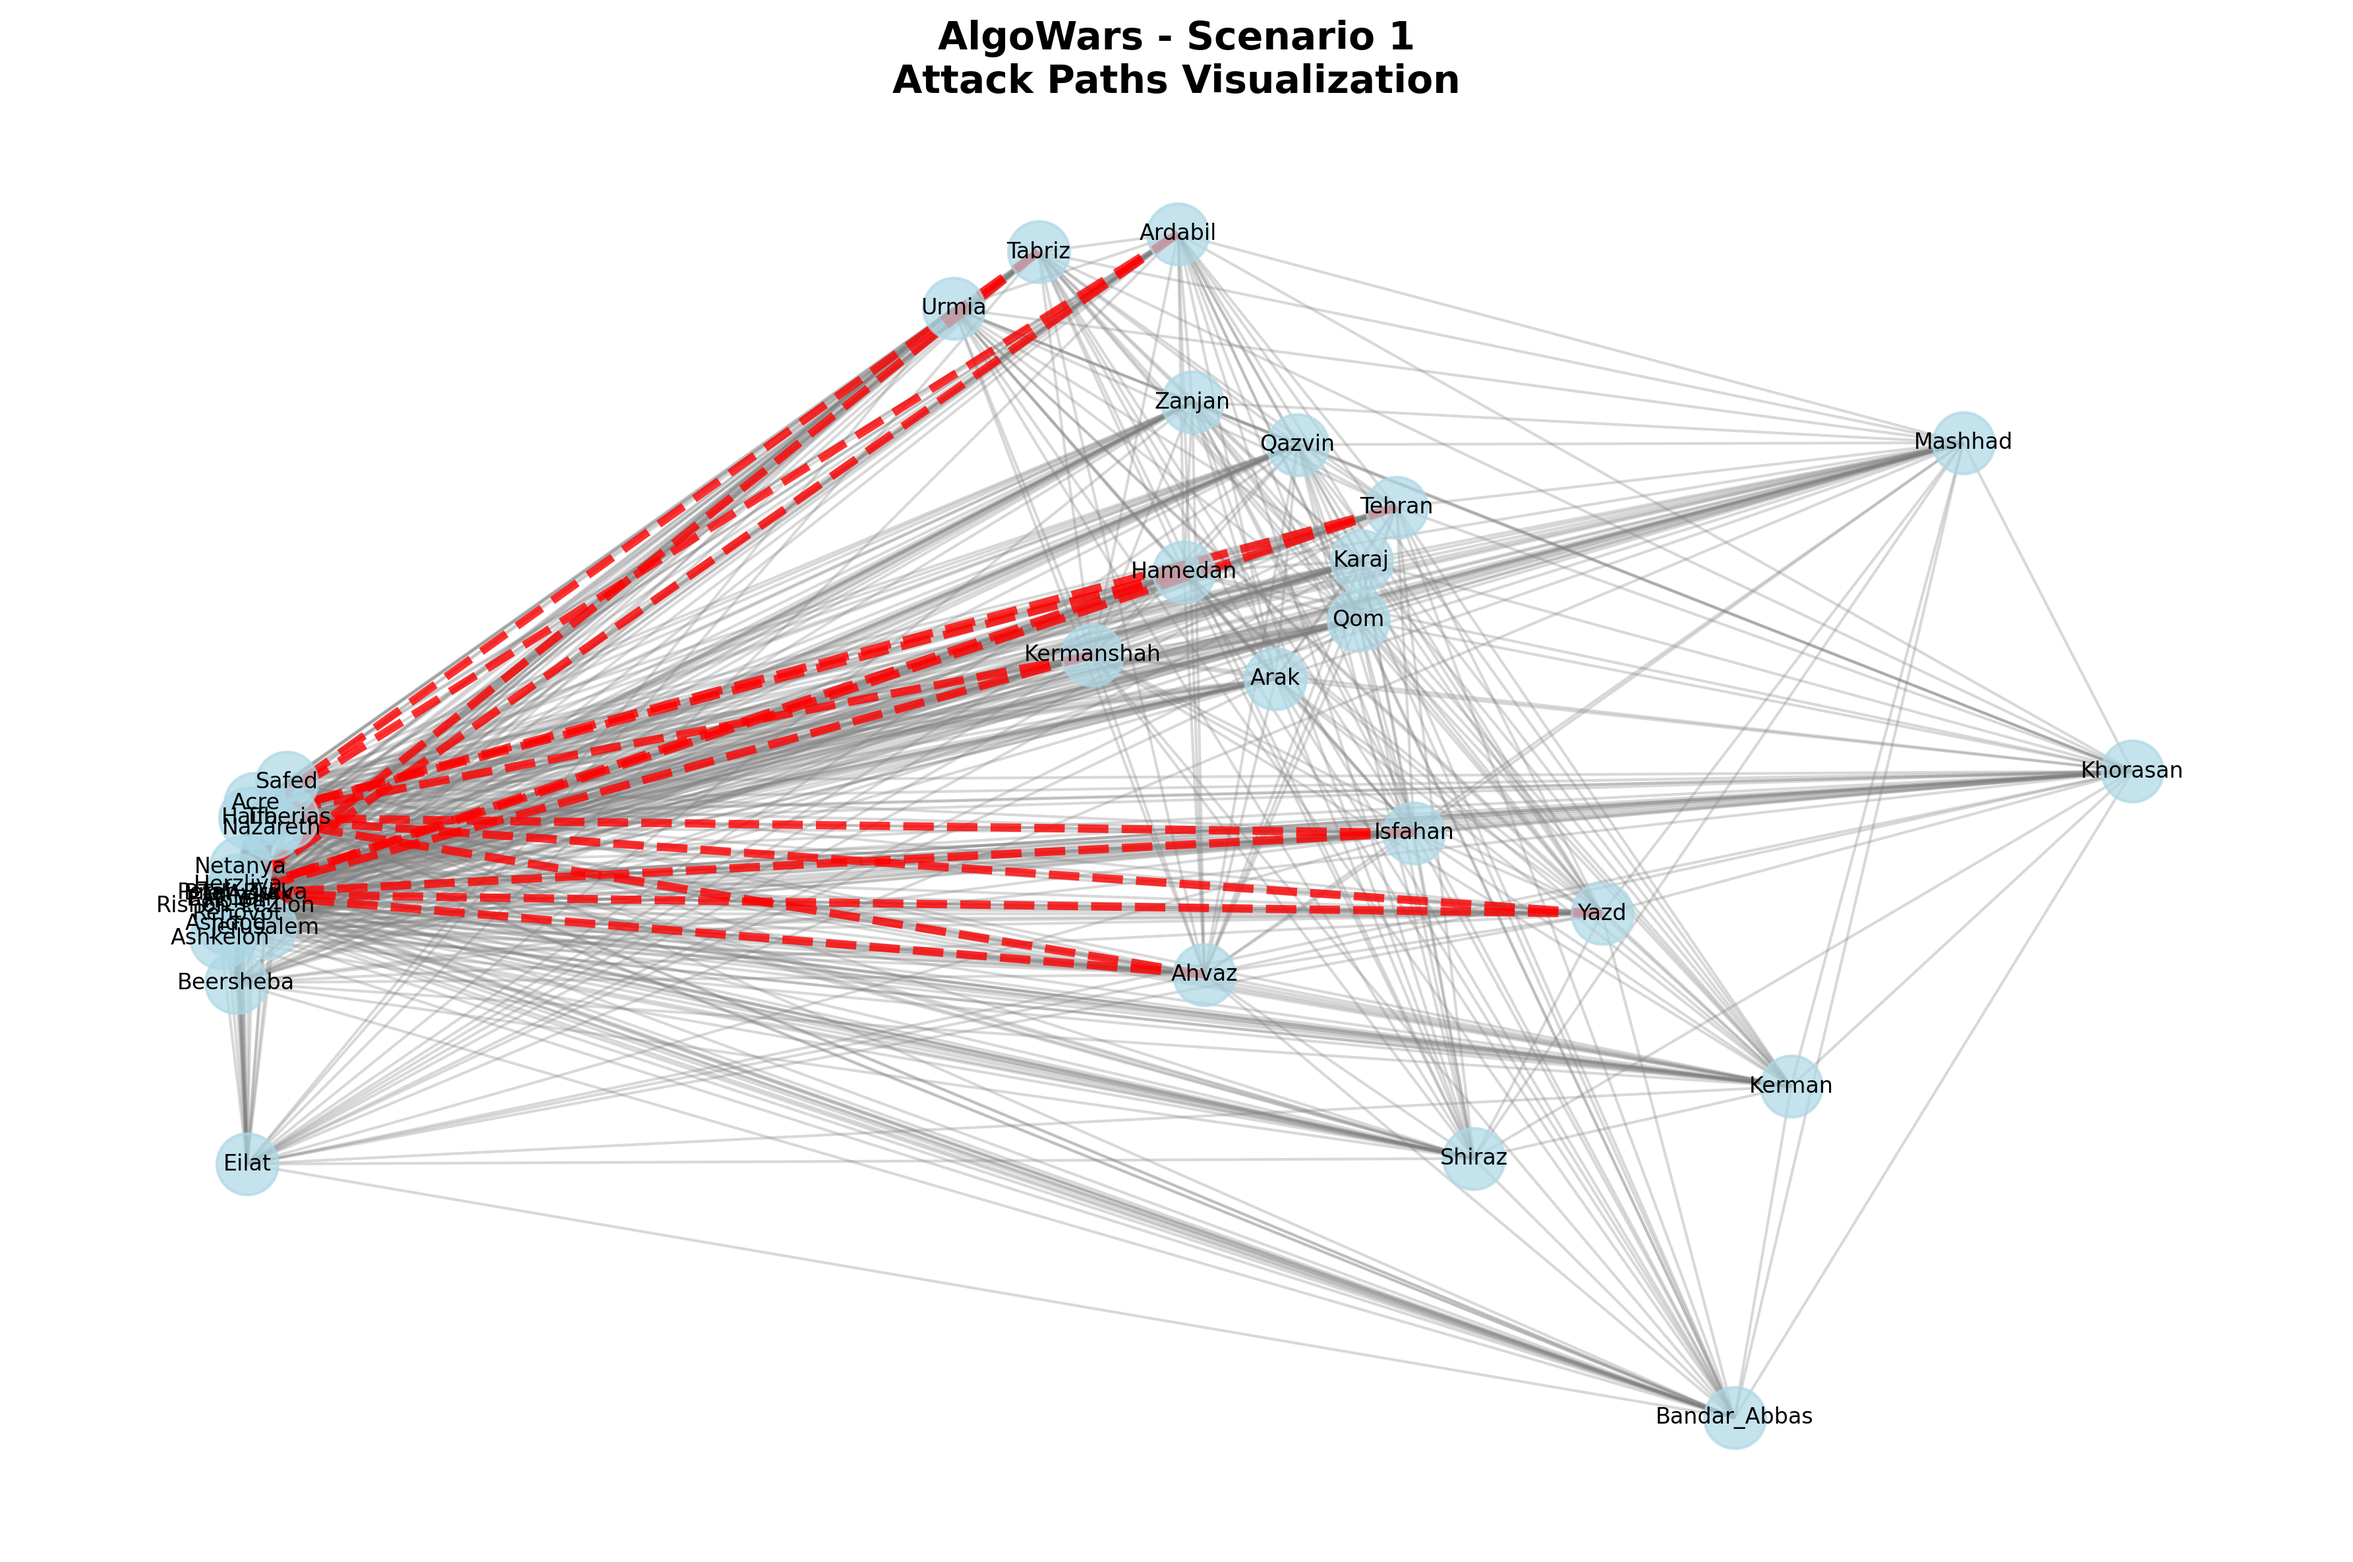
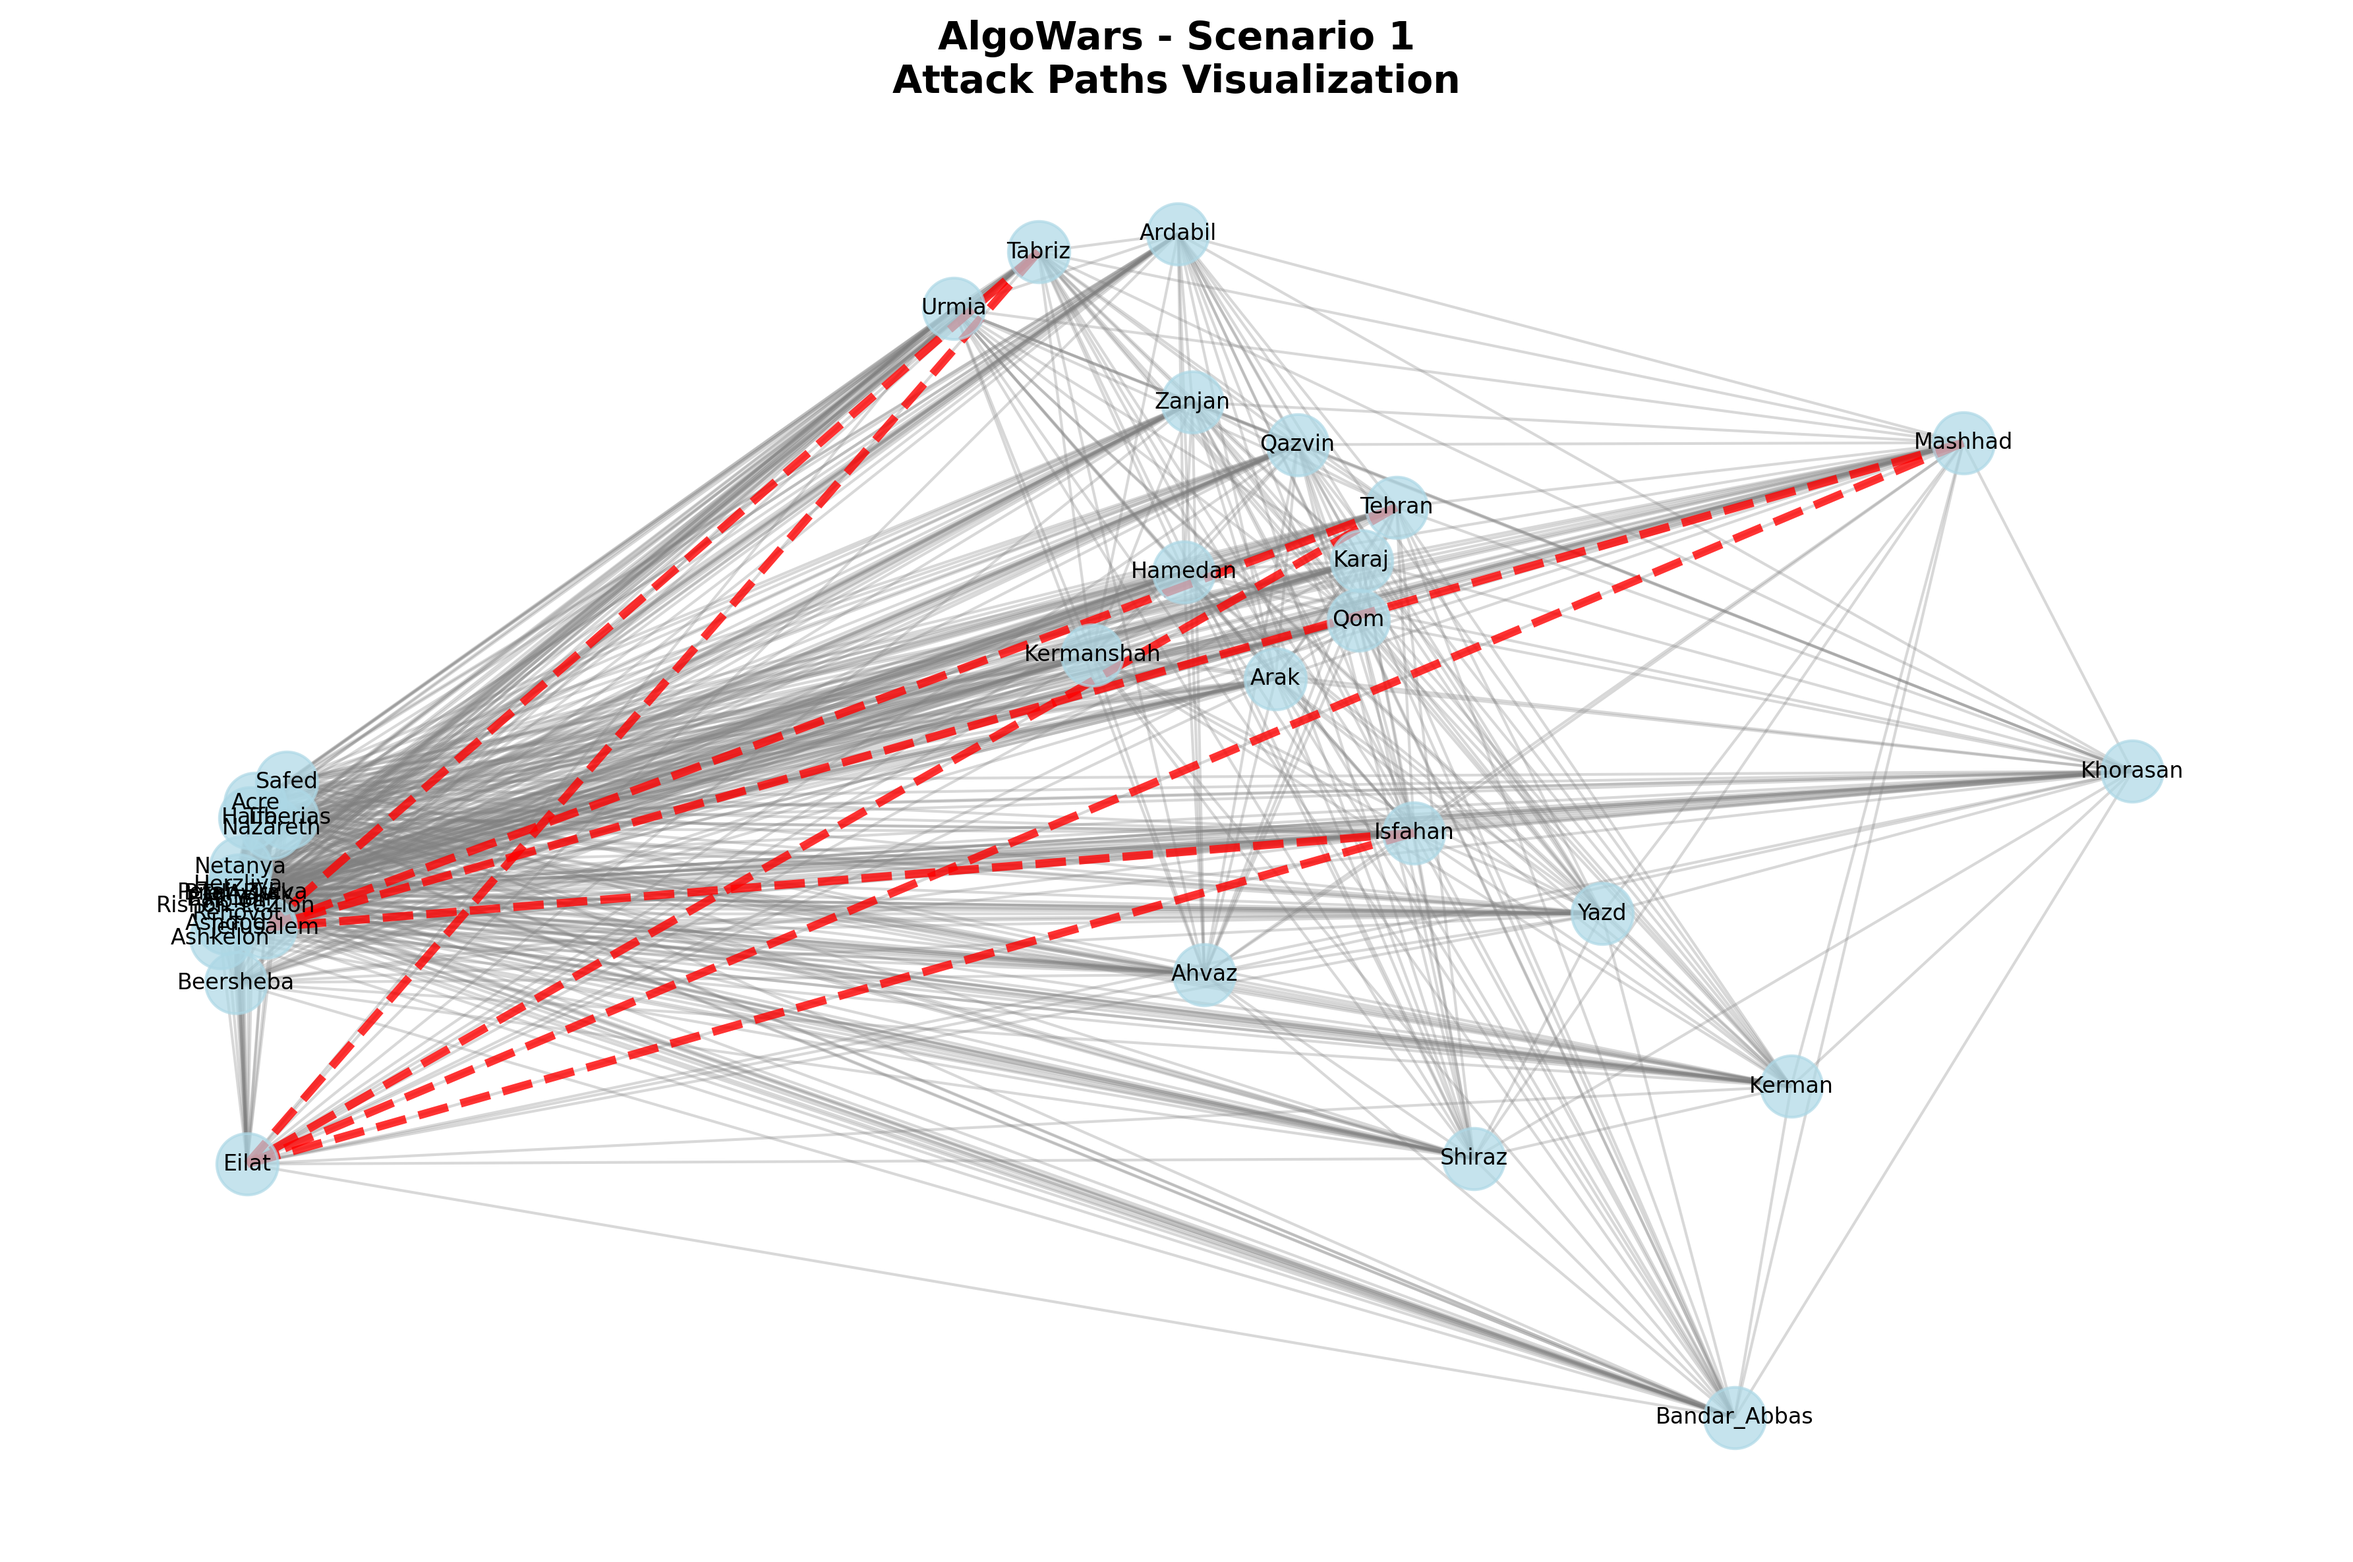
Check and modify scenario one according to the document requirements.

diff --git a/src/engine/scenario_one.py b/src/engine/scenario_one.py
@@ -1,86 +1,154 @@
 #Nima
-#from asyncio import graph
 from map.baseCity import BaseCity
 from algorithms.pathfinding import shortest_path
-#from visualizer.plot_attack_paths import plot_attack_paths
 import json
 import os
+import networkx as nx
 
 def save_attack_log(attack_log, scenario_name="scenario_1"):
-    os.makedirs("results", exist_ok=True)
-    with open(f"results/{scenario_name}.json", "w") as f:
+    os.makedirs("output/results", exist_ok=True)                     # Create output/results directory if it doesn't exist
+    with open(f"output/results/{scenario_name}.json", "w") as f:    # Open the file for writing
         json.dump(attack_log, f, indent=4)
-   # plot_attack_paths(graph, cities, attack_log)
 
-def run_scenario(cities, 
-                 missiles, 
-                 graph):
+def is_safe_path(graph, path, cities_dict, missile_stealth):
+    """
+    Check if the path is safe for the missile (no cities with defense > missile stealth) # mohem
+    """
+    for city_name in path[1:-1]:  # Skip start and end cities  # :)
+        city = cities_dict.get(city_name)
+        if city and city.defense_level > missile_stealth:
+            return False
+    return True
+
+def find_safe_targets_for_base(graph, base, cities, missile_stealth, missile_range):
+    """
+    Find all safe targets for a base with given missile specifications
+    """
+    safe_targets = []
+    
+    for target in cities:
+        if target.city_type != "enemy":
+            continue
+            
+        # Find shortest path
+        path, distance = shortest_path(graph, base.name, target.name, missile_range)
+        if path is None:
+            continue
+            
+        # Check if path is safe (no cities with defense > missile stealth)
+        if is_safe_path(graph, path, {c.name: c for c in cities}, missile_stealth):
+            safe_targets.append({
+                'target': target,
+                'path': path,
+                'distance': distance,
+                'damage': missile_stealth > target.defense_level  # Will cause damage if stealth > defense
+            })
+    
+    return safe_targets
+
+def optimize_target_selection(safe_targets, max_missiles_per_base=2):
+    """
+    Optimize target selection to maximize total damage
+    Prioritize targets that will cause damage (stealth > defense)
+    """
+    # Sort by potential damage (targets that will be hit first)
+    damaging_targets = [t for t in safe_targets if t['damage']]
+    non_damaging_targets = [t for t in safe_targets if not t['damage']]
+    
+    # Prioritize damaging targets
+    selected_targets = damaging_targets[:max_missiles_per_base]
+    
+    # If we have slots left, add non-damaging targets
+    remaining_slots = max_missiles_per_base - len(selected_targets)
+    if remaining_slots > 0:
+        selected_targets.extend(non_damaging_targets[:remaining_slots])
+    
+    return selected_targets
+
+def run_scenario(cities, missiles, graph):
+    """
+    Run scenario 1: All bases have 2 D1 missiles, maximize damage
+    """
+    # Find base cities
     base_cities = []
     for c in cities:
         if c.city_type == "base":
             b = BaseCity(c.name, c.country, c.x, c.y, c.defense_level)
             base_cities.append(b)
 
-    # sangar shekan  yeahhh buddy
+    # Find D1 missiles (SangarShekan)
     d_missiles = [m for m in missiles if m.category == "D1"]
     if not d_missiles:
         print("D1 Missile Not Found")
-        return []  # Correct: return empty list
+        return []
 
-    # charge- Each base receives exactly two D1 missiles
+    d1_missile = d_missiles[0]
+    print(f"Using missile: {d1_missile.name} (Damage: {d1_missile.damage}, Stealth: {d1_missile.stealth})")
+
+    # Load exactly 2 D1 missiles for each base
     for base in base_cities:
-        # For each base, we create two copies of the D1 missile.    
-        base_missiles = []
-        for _ in range(2):  # Exactly two missiles
-            base_missiles.append(d_missiles[0])  # Add the same D1 missile twice
-        
+        base_missiles = [d1_missile] * 2  # Exactly two missiles
         base.load_missiles(base_missiles)
         print(f"   {base.name}: {len(base_missiles)} D1 missiles loaded")
 
     total_damage = 0
     attack_log = []
 
+    # Process each base
     for base in base_cities:
-        for target in cities:
-            if target.city_type != "enemy":
-                continue
-
+        print(f"\n--- Processing {base.name} ---")
+        
+        # Find all safe targets for this base
+        safe_targets = find_safe_targets_for_base(
+            graph, base, cities, d1_missile.stealth, d1_missile.max_range
+        )
+        
+        print(f"Found {len(safe_targets)} safe targets for {base.name}")
+        
+        # Optimize target selection (max 2 missiles per base)
+        selected_targets = optimize_target_selection(safe_targets, max_missiles_per_base=2)
+        
+        print(f"Selected {len(selected_targets)} targets for {base.name}")
+        
+        # Execute attacks
+        for target_info in selected_targets:
             missile = base.fire_missile()
             if missile is None:
+                print(f"   No missiles left for {base.name}")
                 break
-            path, dist = shortest_path(graph, 
-                                       base.name, 
-                                       target.name,
-                                       missile.max_range)  
-            if path is None:
-                continue
-
+                
+            target = target_info['target']
+            path = target_info['path']
+            
+            # Check if missile will hit (stealth > defense)
             if missile.stealth > target.defense_level:
                 damage = missile.damage
                 total_damage += damage
-                attack_log.append({
-                    "from":   base.name,
-                    "to":     target.name,
-                    "path":   path,
-                    "damage": damage 
-                })         
+                status = "Hit"
+                print(f"   {base.name} -> {target.name}: HIT! Damage: {damage}")
             else:
-                attack_log.append({
-                    "from": base.name,
-                    "to": target.name,
-                    "path": path,
-                    "damage": 0,
-                    "status": "intercepted"
-                })  
-        print("Attack Summary:")
-        for log in attack_log:
-            d = log.get("damage", 0)
-            status = "Hit" if d > 0 else "Blocked"
-            print(f"{log['from']} ->  {log['to']} | Path: {' -> '.join(log['path'])} | {status} | Damage: {d}")
-    
-    save_attack_log(attack_log)
-    print(" Results saved to results/scenario_1.json")
+                damage = 0
+                status = "Intercepted"
+                print(f"   {base.name} -> {target.name}: INTERCEPTED! Defense: {target.defense_level}")
+            
+            attack_log.append({
+                "from": base.name,
+                "to": target.name,
+                "path": path,
+                "damage": damage,
+                "status": status,
+                "missile_stealth": missile.stealth,
+                "target_defense": target.defense_level
+            })
 
-    print(f"\n Total Damage: {total_damage}")                       
+    # Save results
+    save_attack_log(attack_log)
+    print(f"\nResults saved to output/results/scenario_1.json")
+    print(f"Total Damage: {total_damage}")
+    
+    # Print summary
+    print("\n=== ATTACK SUMMARY ===")
+    for log in attack_log:
+        print(f"{log['from']} -> {log['to']} | {log['status']} | Damage: {log['damage']}")
     
     return attack_log                       
